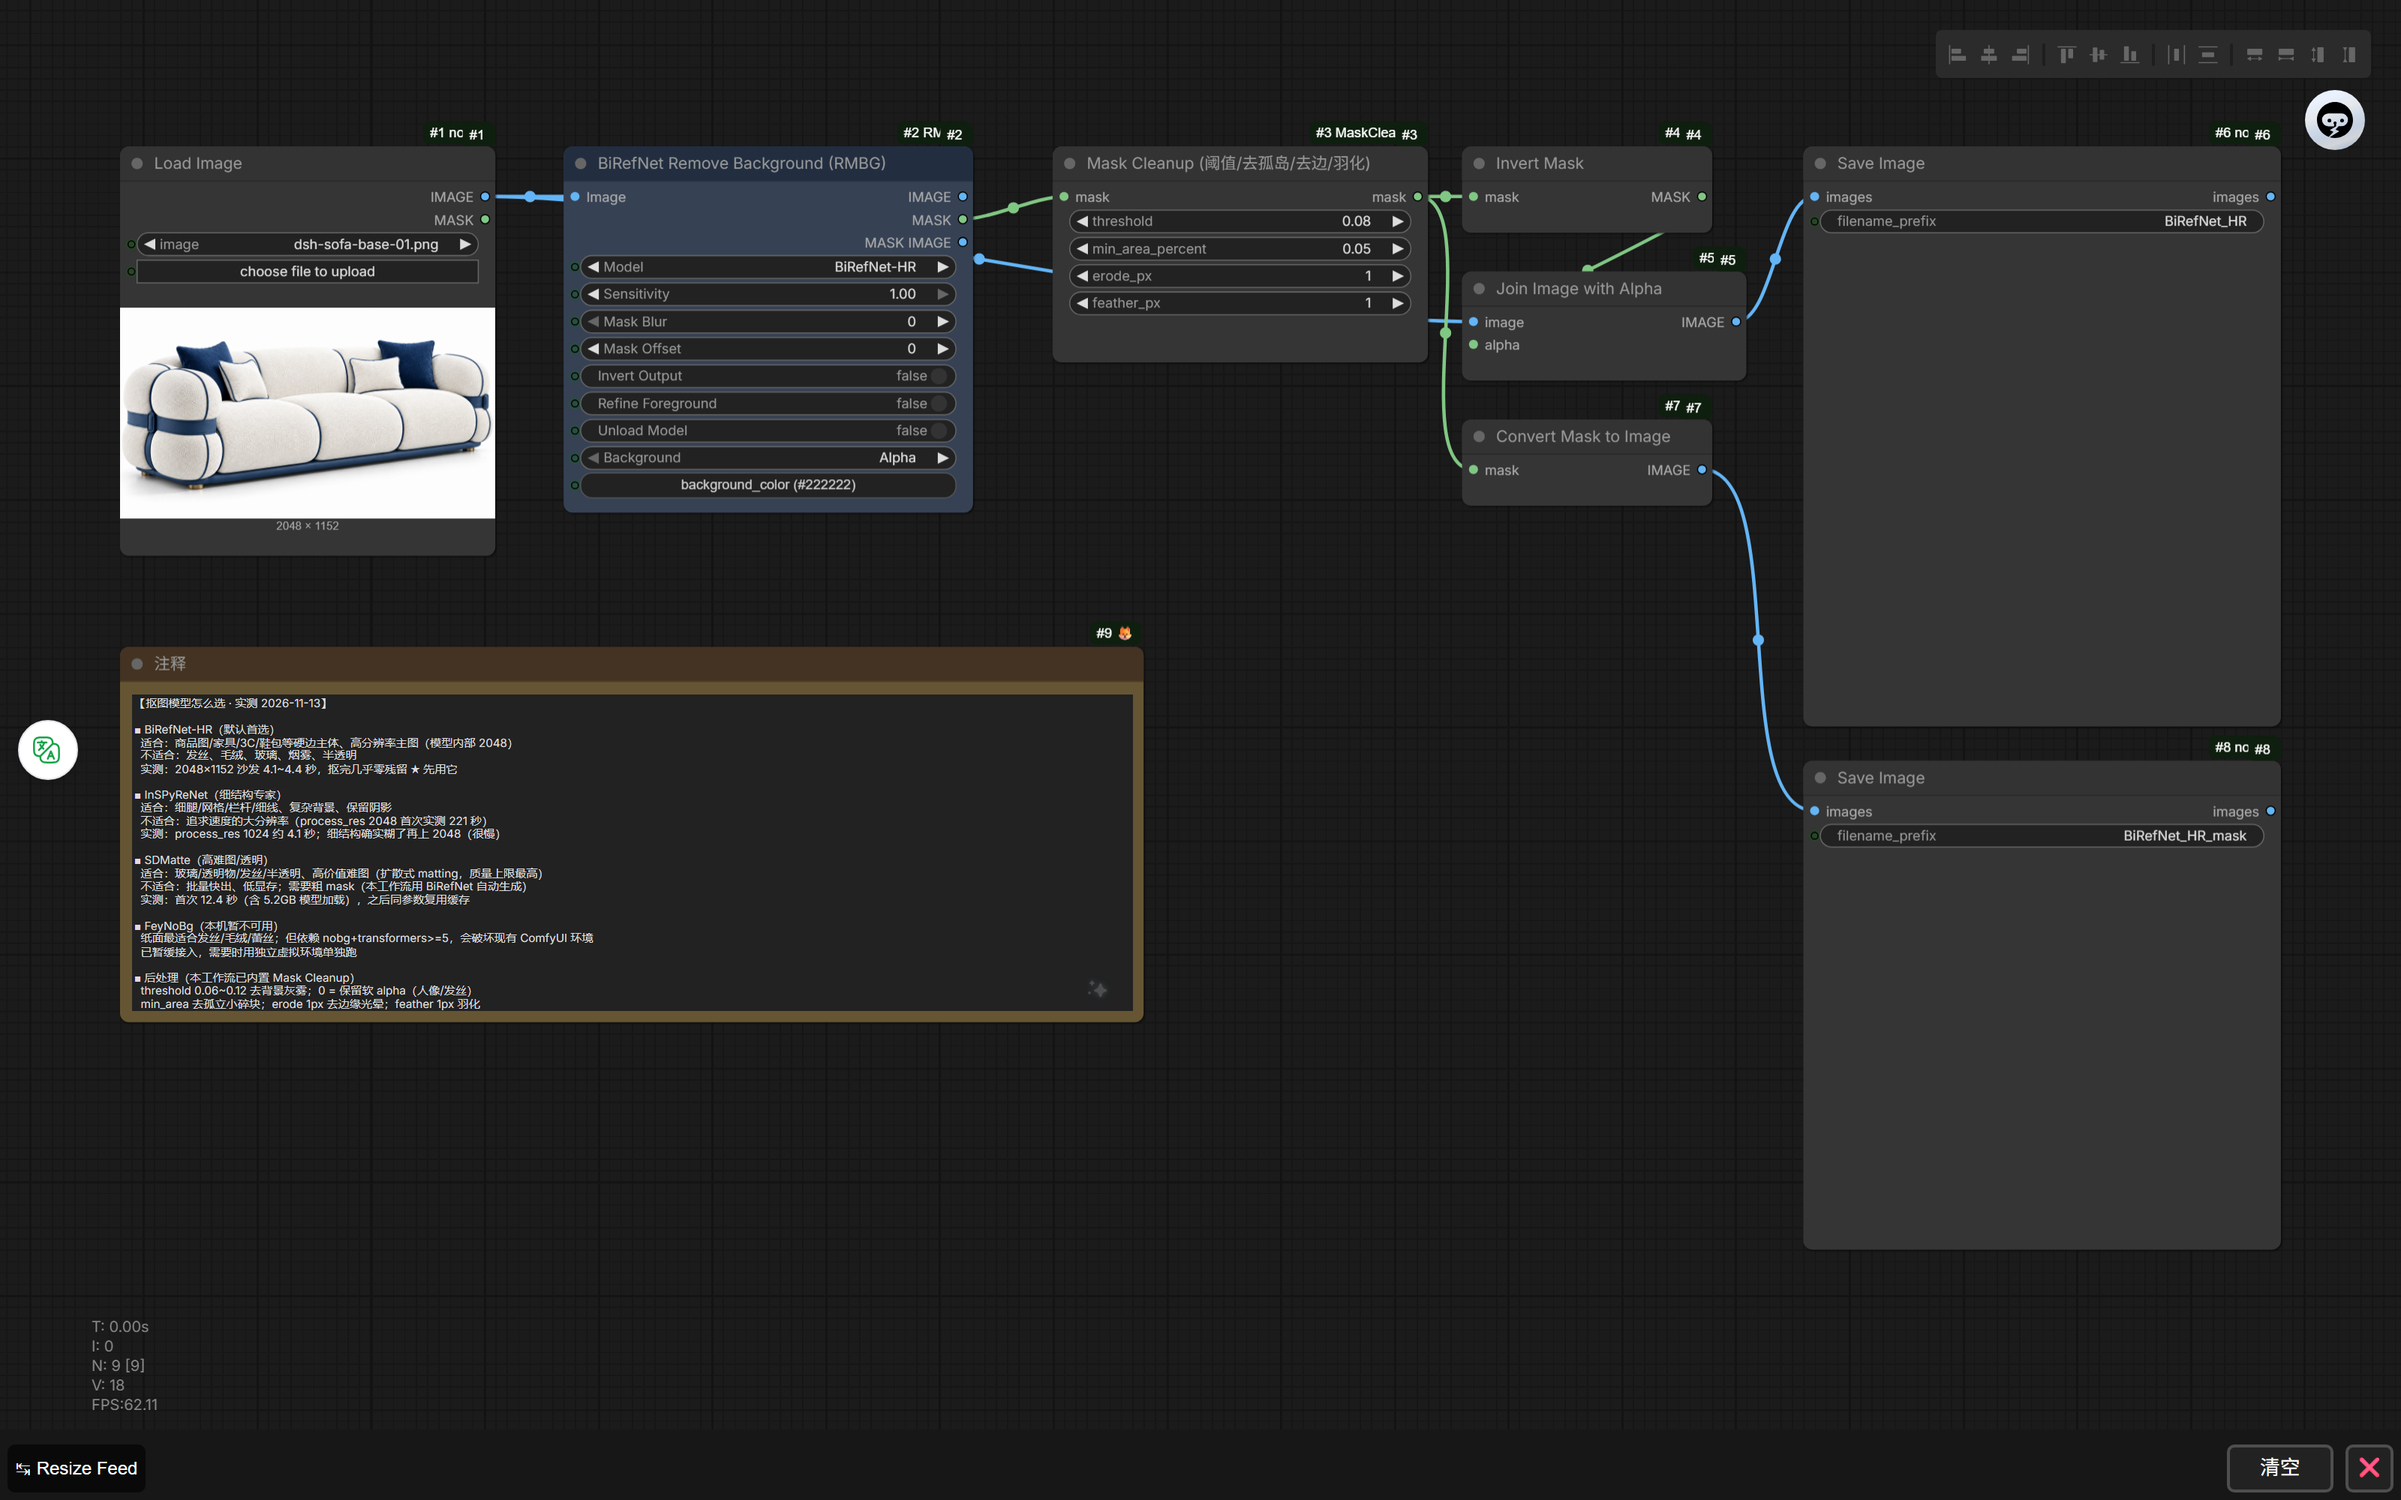
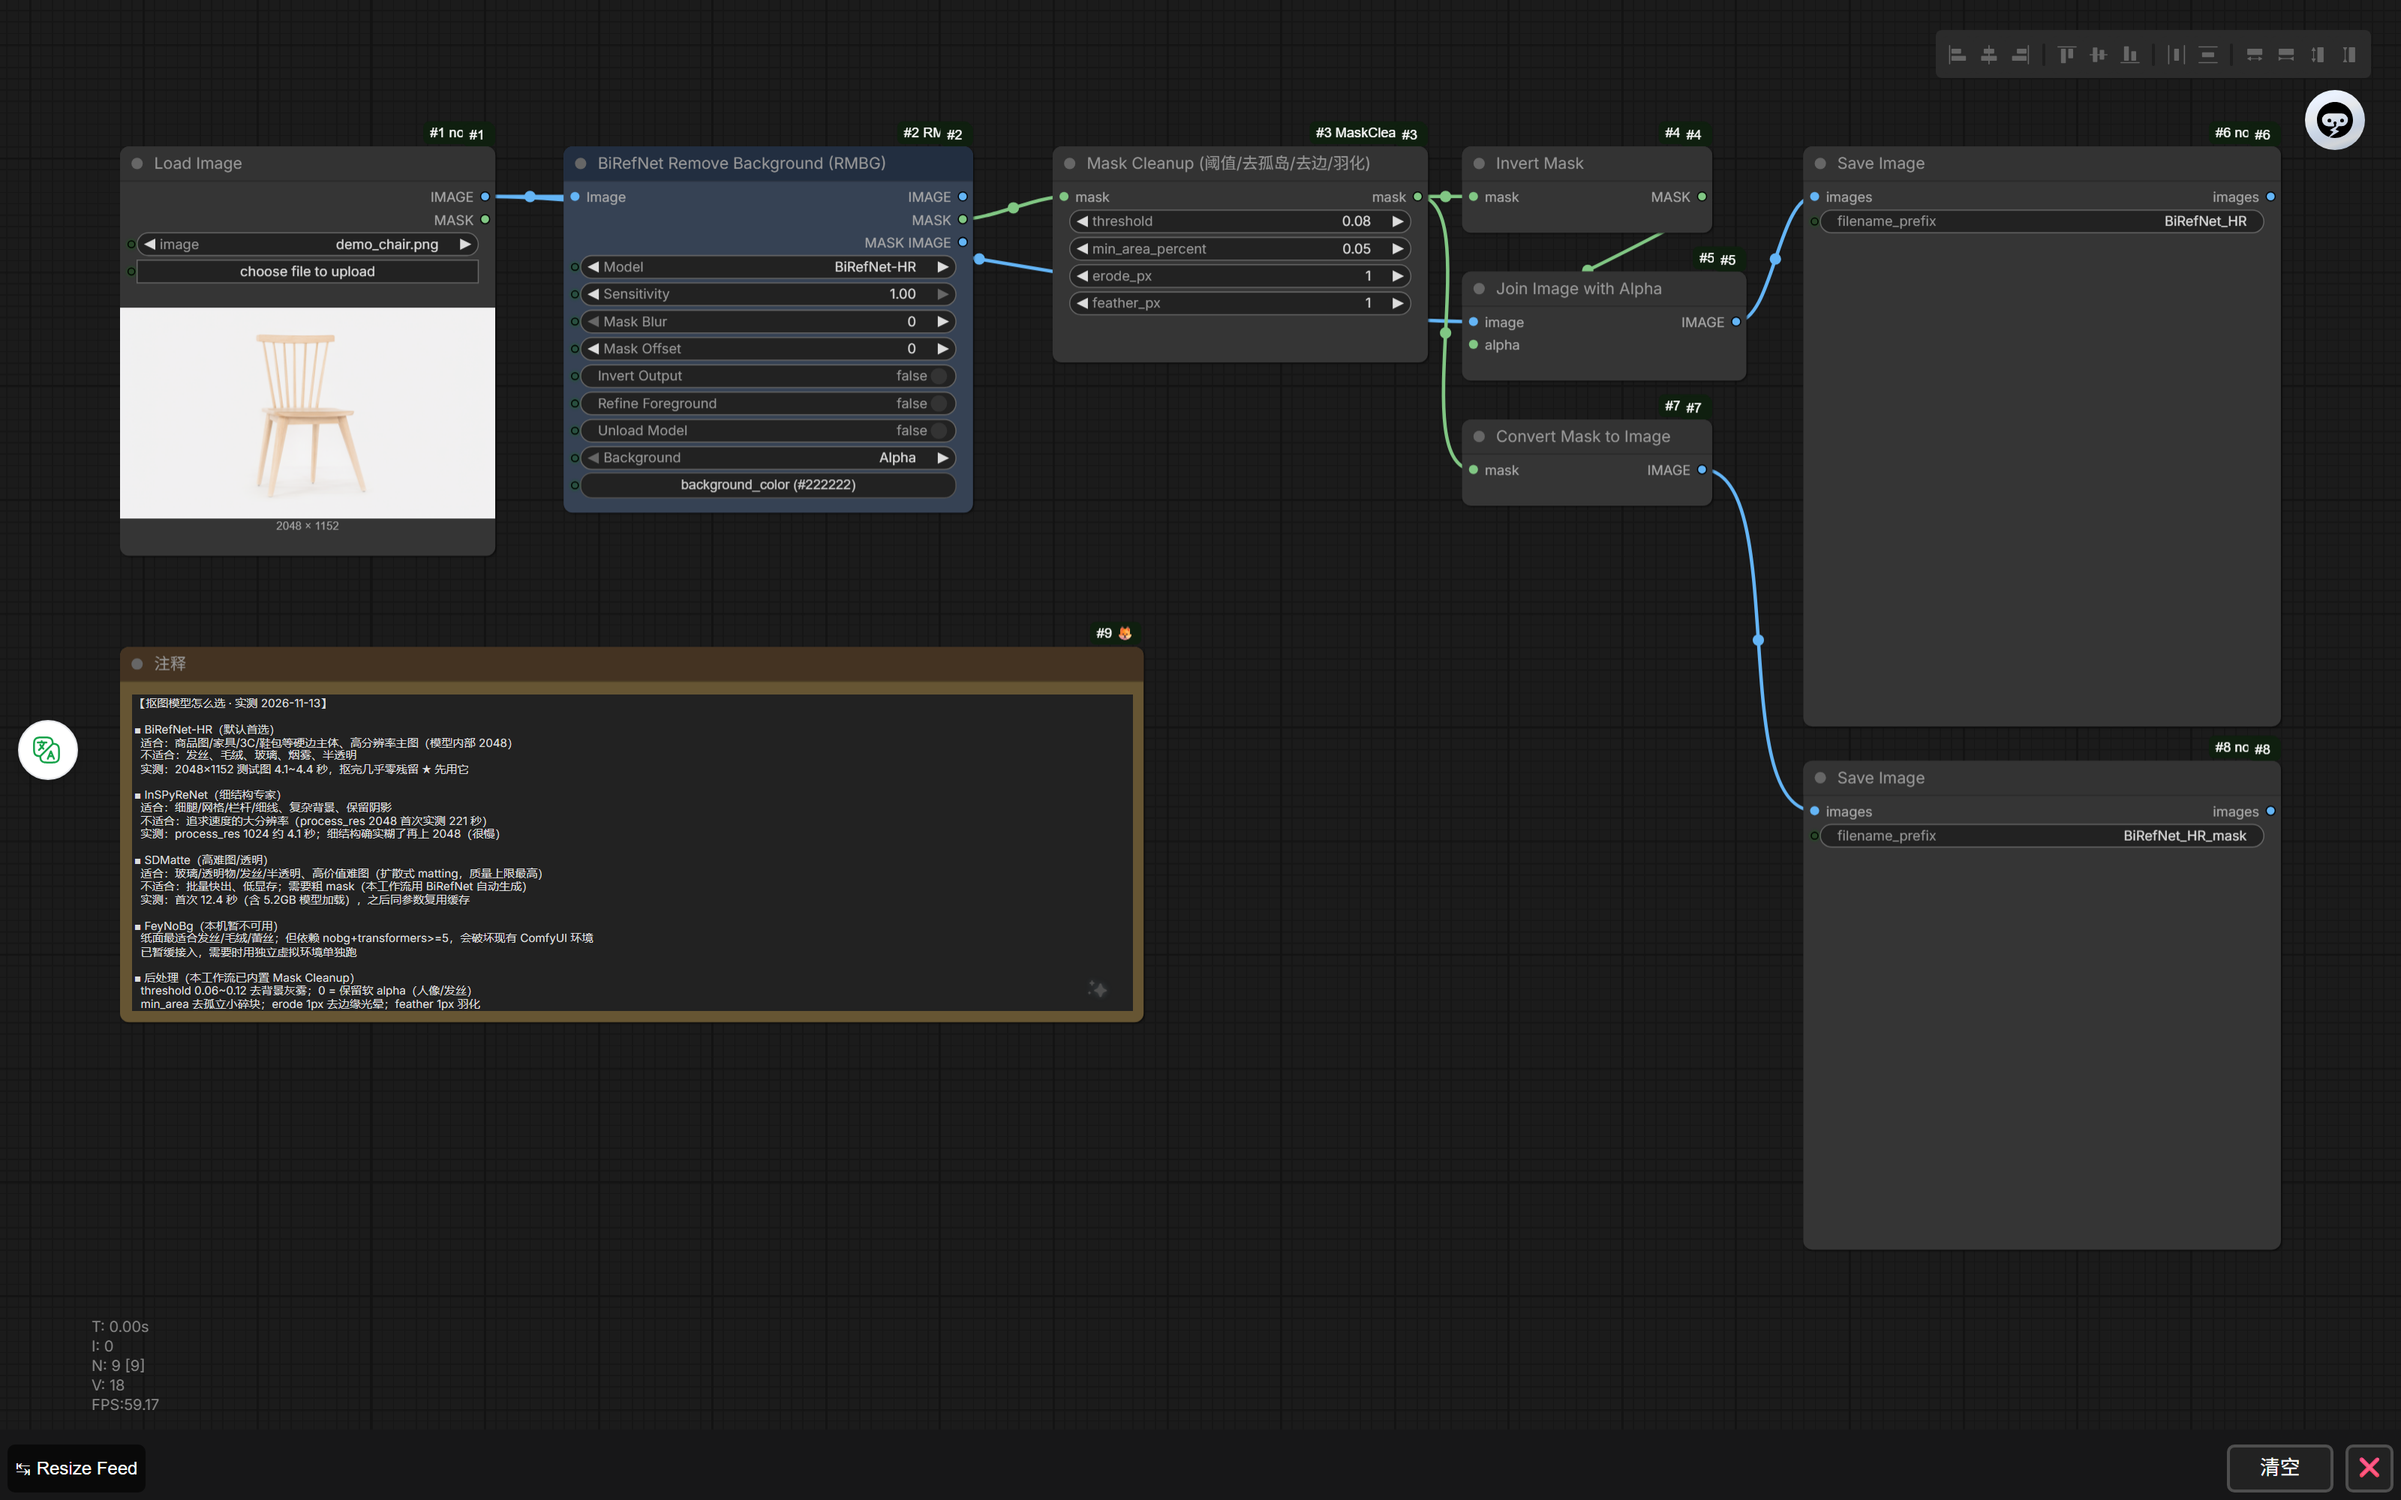
Replace sofa demo images with chair/vase/table and refresh workflow screenshots

Changed region(s): [[0.0312, 0.217, 0.2188, 0.341], [0.0938, 0.496, 0.1875, 0.527], [0.125, 0.155, 0.1562, 0.186]]

diff --git a/README.md b/README.md
@@ -12,7 +12,7 @@
 
 ## 5 个工作流一览
 
-| 工作流文件 | 模型 | 最佳用途 | 实测（2048×1152 沙发） |
+| 工作流文件 | 模型 | 最佳用途 | 实测（2048×1152 测试图） |
 |---|---|---|---|
 | `Lucida 抠图（BiRefNet）.json` | Lucida（MIT） | 玻璃/透明、文字 logo、插画、印花 | 约 1.2 秒（有低 alpha 残留，建议配合清理） |
 | `Sapiens2 人像抠图（软 alpha）.json` | Sapiens2-1B（Meta） | **人像**发丝、软 alpha、预乘前景 | 首次 14 秒 / 缓存后 2.3 秒（仅人像） |
